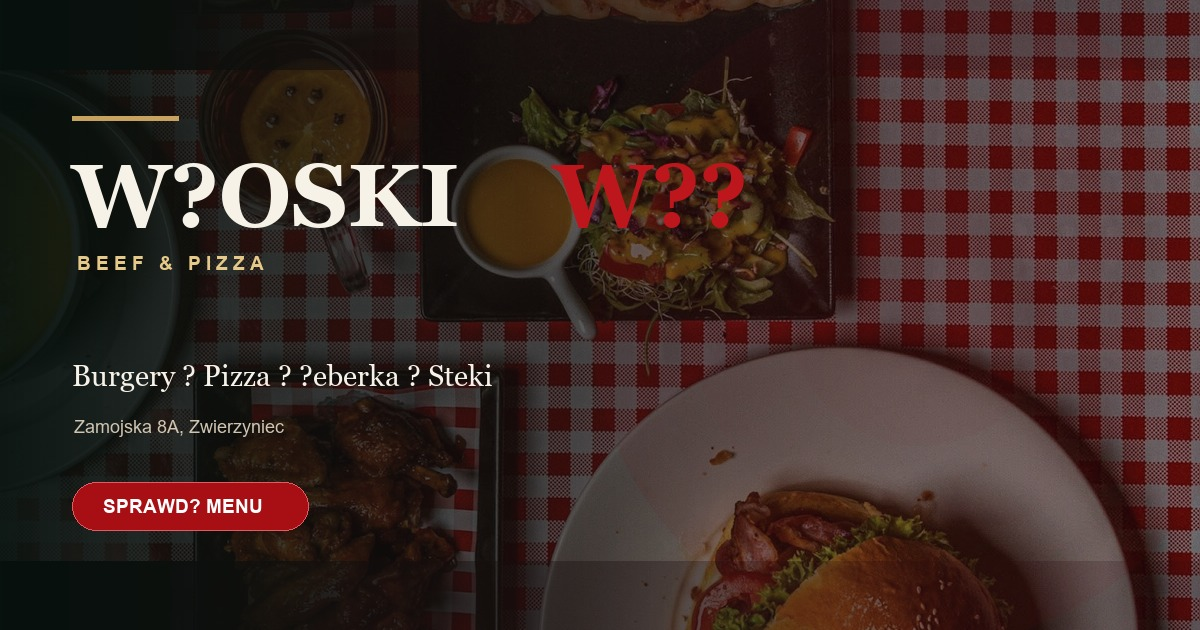
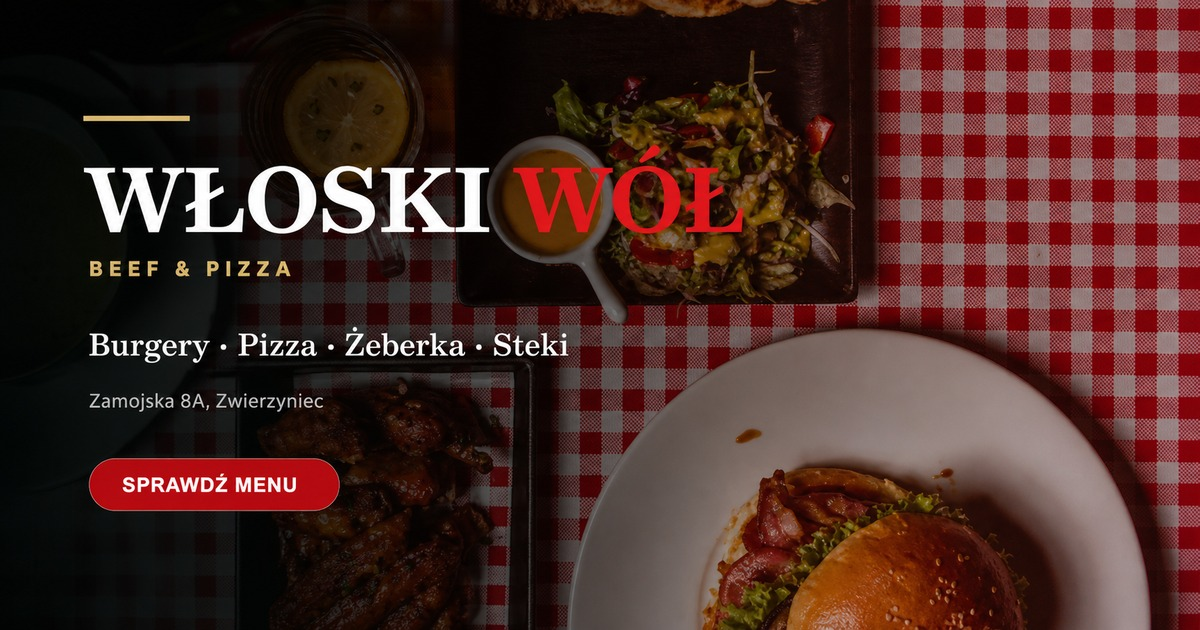
Add files via upload

diff --git a/index.html b/index.html
@@ -14,12 +14,12 @@
   <meta property="og:title" content="Włoski Wół Beef &amp; Pizza — Zwierzyniec">
   <meta property="og:description" content="Burgery, pizza, żeberka, steki i konkretne dania obiadowe w Zwierzyńcu.">
   <meta property="og:url" content="https://78747.github.io/wloski-wol.github.io/index.html">
-  <meta property="og:image" content="https://78747.github.io/wloski-wol.github.io/assets/images/og-cover.jpg"><meta property="og:image:width" content="1200"><meta property="og:image:height" content="630">
+  <meta property="og:image" content="https://78747.github.io/wloski-wol.github.io/assets/images/og-cover.jpg?v=20260714-2"><meta property="og:image:width" content="1200"><meta property="og:image:height" content="630">
   <meta property="og:image:alt" content="Włoski Wół — okładka marki">
   <meta name="twitter:card" content="summary_large_image">
   <meta name="twitter:title" content="Włoski Wół">
   <meta name="twitter:description" content="Beef &amp; Pizza. Konkretny smak.">
-  <meta name="twitter:image" content="https://78747.github.io/wloski-wol.github.io/assets/images/og-cover.jpg">
+  <meta name="twitter:image" content="https://78747.github.io/wloski-wol.github.io/assets/images/og-cover.jpg?v=20260714-2">
   <link rel="icon" href="assets/icons/favicon.png?v=20260713" type="image/png"><link rel="apple-touch-icon" href="assets/icons/favicon.png?v=20260713">
   <link rel="manifest" href="manifest.webmanifest">
   <link rel="preconnect" href="https://fonts.googleapis.com">
@@ -28,7 +28,7 @@
   <link rel="preload" href="assets/images/home-hero.jpg" as="image" type="image/jpeg">
   <link rel="stylesheet" href="styles.css?v=20260714-4">
   <script>document.documentElement.classList.remove('no-js');document.documentElement.classList.add('js');</script>
-  <script type="application/ld+json">{"@context":"https://schema.org","@type":"Restaurant","@id":"https://78747.github.io/wloski-wol.github.io/#restaurant","name":"Włoski Wół","alternateName":"Włoski Wół Beef \u0026 Pizza","url":"https://78747.github.io/wloski-wol.github.io/index.html","image":"https://78747.github.io/wloski-wol.github.io/assets/images/og-cover.jpg","description":"Beef \u0026 Pizza w Zwierzyńcu: burgery, pizza, żeberka, steki i dania obiadowe.","telephone":"+48 881 422 122","servesCuisine":["Burgery","Pizza","Steki","Dania obiadowe"],"menu":"https://78747.github.io/wloski-wol.github.io/menu.html","address":{"@type":"PostalAddress","streetAddress":"Zamojska 8A","postalCode":"22-470","addressLocality":"Zwierzyniec","addressCountry":"PL"},"hasMap":"https://www.google.com/maps/dir/?api=1\u0026destination=Zamojska+8A%2C+22-470+Zwierzyniec","sameAs":["https://www.facebook.com/wloskiwol"],"openingHoursSpecification":[{"@type":"OpeningHoursSpecification","dayOfWeek":["Monday","Tuesday","Wednesday","Thursday","Sunday"],"opens":"12:00","closes":"22:00"},{"@type":"OpeningHoursSpecification","dayOfWeek":["Friday","Saturday"],"opens":"12:00","closes":"23:00"}],"aggregateRating":{"@type":"AggregateRating","ratingValue":"4.6","bestRating":"5","reviewCount":"1391"}}</script>
+  <script type="application/ld+json">{"@context":"https://schema.org","@type":"Restaurant","@id":"https://78747.github.io/wloski-wol.github.io/#restaurant","name":"Włoski Wół","alternateName":"Włoski Wół Beef \u0026 Pizza","url":"https://78747.github.io/wloski-wol.github.io/index.html","image":"https://78747.github.io/wloski-wol.github.io/assets/images/og-cover.jpg?v=20260714-2","description":"Beef \u0026 Pizza w Zwierzyńcu: burgery, pizza, żeberka, steki i dania obiadowe.","telephone":"+48 881 422 122","servesCuisine":["Burgery","Pizza","Steki","Dania obiadowe"],"menu":"https://78747.github.io/wloski-wol.github.io/menu.html","address":{"@type":"PostalAddress","streetAddress":"Zamojska 8A","postalCode":"22-470","addressLocality":"Zwierzyniec","addressCountry":"PL"},"hasMap":"https://www.google.com/maps/dir/?api=1\u0026destination=Zamojska+8A%2C+22-470+Zwierzyniec","sameAs":["https://www.facebook.com/wloskiwol"],"openingHoursSpecification":[{"@type":"OpeningHoursSpecification","dayOfWeek":["Monday","Tuesday","Wednesday","Thursday","Sunday"],"opens":"12:00","closes":"22:00"},{"@type":"OpeningHoursSpecification","dayOfWeek":["Friday","Saturday"],"opens":"12:00","closes":"23:00"}],"aggregateRating":{"@type":"AggregateRating","ratingValue":"4.6","bestRating":"5","reviewCount":"1391"}}</script>
 </head>
 <body data-page="home">
   <a class="skip-link" href="#main">Przejdź do treści</a>

diff --git a/kontakt.html b/kontakt.html
@@ -6,11 +6,11 @@
   <meta name="description" content="Kontakt z restauracją Włoski Wół — Zamojska 8A w Zwierzyńcu. Telefon 881 422 122, aktualne godziny otwarcia, Facebook i mapa dojazdu.">
   <meta name="theme-color" content="#0A0A0A"><meta name="robots" content="index, follow">
   <link rel="canonical" href="https://78747.github.io/wloski-wol.github.io/kontakt.html">
-  <meta property="og:type" content="website"><meta property="og:locale" content="pl_PL"><meta property="og:site_name" content="Włoski Wół"><meta property="og:title" content="Kontakt i lokalizacja — Włoski Wół"><meta property="og:description" content="Dane wizyty Włoskiego Wołu."><meta property="og:url" content="https://78747.github.io/wloski-wol.github.io/kontakt.html"><meta property="og:image" content="https://78747.github.io/wloski-wol.github.io/assets/images/og-cover.jpg"><meta property="og:image:width" content="1200"><meta property="og:image:height" content="630"><meta property="og:image:alt" content="Włoski Wół — okładka marki">
-  <meta name="twitter:card" content="summary_large_image"><meta name="twitter:title" content="Kontakt — Włoski Wół"><meta name="twitter:description" content="Dane wizyty Włoskiego Wołu."><meta name="twitter:image" content="https://78747.github.io/wloski-wol.github.io/assets/images/og-cover.jpg">
+  <meta property="og:type" content="website"><meta property="og:locale" content="pl_PL"><meta property="og:site_name" content="Włoski Wół"><meta property="og:title" content="Kontakt i lokalizacja — Włoski Wół"><meta property="og:description" content="Dane wizyty Włoskiego Wołu."><meta property="og:url" content="https://78747.github.io/wloski-wol.github.io/kontakt.html"><meta property="og:image" content="https://78747.github.io/wloski-wol.github.io/assets/images/og-cover.jpg?v=20260714-2"><meta property="og:image:width" content="1200"><meta property="og:image:height" content="630"><meta property="og:image:alt" content="Włoski Wół — okładka marki">
+  <meta name="twitter:card" content="summary_large_image"><meta name="twitter:title" content="Kontakt — Włoski Wół"><meta name="twitter:description" content="Dane wizyty Włoskiego Wołu."><meta name="twitter:image" content="https://78747.github.io/wloski-wol.github.io/assets/images/og-cover.jpg?v=20260714-2">
   <link rel="icon" href="assets/icons/favicon.png?v=20260713" type="image/png"><link rel="apple-touch-icon" href="assets/icons/favicon.png?v=20260713"><link rel="manifest" href="manifest.webmanifest"><link rel="preconnect" href="https://fonts.googleapis.com"><link rel="preconnect" href="https://fonts.gstatic.com" crossorigin><link href="https://fonts.googleapis.com/css2?family=Cormorant+Garamond:ital,wght@0,400;0,500;0,600;1,500&amp;family=Manrope:wght@400;500;600;700;800&amp;display=swap" rel="stylesheet"><link rel="stylesheet" href="styles.css?v=20260714-4">
   <script>document.documentElement.classList.remove('no-js');document.documentElement.classList.add('js');</script>
-  <script type="application/ld+json">{"@context":"https://schema.org","@type":"Restaurant","@id":"https://78747.github.io/wloski-wol.github.io/#restaurant","name":"Włoski Wół","alternateName":"Włoski Wół Beef \u0026 Pizza","url":"https://78747.github.io/wloski-wol.github.io/kontakt.html","image":"https://78747.github.io/wloski-wol.github.io/assets/images/og-cover.jpg","description":"Beef \u0026 Pizza w Zwierzyńcu: burgery, pizza, żeberka, steki i dania obiadowe.","telephone":"+48 881 422 122","servesCuisine":["Burgery","Pizza","Steki","Dania obiadowe"],"menu":"https://78747.github.io/wloski-wol.github.io/menu.html","address":{"@type":"PostalAddress","streetAddress":"Zamojska 8A","postalCode":"22-470","addressLocality":"Zwierzyniec","addressCountry":"PL"},"hasMap":"https://www.google.com/maps/dir/?api=1\u0026destination=Zamojska+8A%2C+22-470+Zwierzyniec","sameAs":["https://www.facebook.com/wloskiwol"],"openingHoursSpecification":[{"@type":"OpeningHoursSpecification","dayOfWeek":["Monday","Tuesday","Wednesday","Thursday","Sunday"],"opens":"12:00","closes":"22:00"},{"@type":"OpeningHoursSpecification","dayOfWeek":["Friday","Saturday"],"opens":"12:00","closes":"23:00"}],"aggregateRating":{"@type":"AggregateRating","ratingValue":"4.6","bestRating":"5","reviewCount":"1391"}}</script>
+  <script type="application/ld+json">{"@context":"https://schema.org","@type":"Restaurant","@id":"https://78747.github.io/wloski-wol.github.io/#restaurant","name":"Włoski Wół","alternateName":"Włoski Wół Beef \u0026 Pizza","url":"https://78747.github.io/wloski-wol.github.io/kontakt.html","image":"https://78747.github.io/wloski-wol.github.io/assets/images/og-cover.jpg?v=20260714-2","description":"Beef \u0026 Pizza w Zwierzyńcu: burgery, pizza, żeberka, steki i dania obiadowe.","telephone":"+48 881 422 122","servesCuisine":["Burgery","Pizza","Steki","Dania obiadowe"],"menu":"https://78747.github.io/wloski-wol.github.io/menu.html","address":{"@type":"PostalAddress","streetAddress":"Zamojska 8A","postalCode":"22-470","addressLocality":"Zwierzyniec","addressCountry":"PL"},"hasMap":"https://www.google.com/maps/dir/?api=1\u0026destination=Zamojska+8A%2C+22-470+Zwierzyniec","sameAs":["https://www.facebook.com/wloskiwol"],"openingHoursSpecification":[{"@type":"OpeningHoursSpecification","dayOfWeek":["Monday","Tuesday","Wednesday","Thursday","Sunday"],"opens":"12:00","closes":"22:00"},{"@type":"OpeningHoursSpecification","dayOfWeek":["Friday","Saturday"],"opens":"12:00","closes":"23:00"}],"aggregateRating":{"@type":"AggregateRating","ratingValue":"4.6","bestRating":"5","reviewCount":"1391"}}</script>
 </head>
 <body data-page="contact">
   <a class="skip-link" href="#main">Przejdź do treści</a><div class="scroll-progress" data-scroll-progress aria-hidden="true"></div><div class="custom-cursor" data-cursor aria-hidden="true"></div>

diff --git a/menu.html b/menu.html
@@ -10,14 +10,14 @@
   <link rel="canonical" href="https://78747.github.io/wloski-wol.github.io/menu.html">
   <meta property="og:type" content="website"><meta property="og:locale" content="pl_PL"><meta property="og:site_name" content="Włoski Wół">
   <meta property="og:title" content="Menu — Włoski Wół"><meta property="og:description" content="Pełna karta Włoskiego Wołu z opisami dań, wariantami, gramaturami i cenami.">
-  <meta property="og:url" content="https://78747.github.io/wloski-wol.github.io/menu.html"><meta property="og:image" content="https://78747.github.io/wloski-wol.github.io/assets/images/og-cover.jpg"><meta property="og:image:width" content="1200"><meta property="og:image:height" content="630"><meta property="og:image:alt" content="Włoski Wół — okładka marki">
-  <meta name="twitter:card" content="summary_large_image"><meta name="twitter:title" content="Menu — Włoski Wół"><meta name="twitter:description" content="Karta Włoskiego Wołu."><meta name="twitter:image" content="https://78747.github.io/wloski-wol.github.io/assets/images/og-cover.jpg">
+  <meta property="og:url" content="https://78747.github.io/wloski-wol.github.io/menu.html"><meta property="og:image" content="https://78747.github.io/wloski-wol.github.io/assets/images/og-cover.jpg?v=20260714-2"><meta property="og:image:width" content="1200"><meta property="og:image:height" content="630"><meta property="og:image:alt" content="Włoski Wół — okładka marki">
+  <meta name="twitter:card" content="summary_large_image"><meta name="twitter:title" content="Menu — Włoski Wół"><meta name="twitter:description" content="Karta Włoskiego Wołu."><meta name="twitter:image" content="https://78747.github.io/wloski-wol.github.io/assets/images/og-cover.jpg?v=20260714-2">
   <link rel="icon" href="assets/icons/favicon.png?v=20260713" type="image/png"><link rel="apple-touch-icon" href="assets/icons/favicon.png?v=20260713"><link rel="manifest" href="manifest.webmanifest">
   <link rel="preconnect" href="https://fonts.googleapis.com"><link rel="preconnect" href="https://fonts.gstatic.com" crossorigin>
   <link href="https://fonts.googleapis.com/css2?family=Cormorant+Garamond:ital,wght@0,400;0,500;0,600;1,500&amp;family=Manrope:wght@400;500;600;700;800&amp;display=swap" rel="stylesheet">
   <link rel="stylesheet" href="styles.css?v=20260714-4">
   <script>document.documentElement.classList.remove('no-js');document.documentElement.classList.add('js');</script>
-  <script type="application/ld+json">{"@context":"https://schema.org","@type":"Restaurant","@id":"https://78747.github.io/wloski-wol.github.io/#restaurant","name":"Włoski Wół","alternateName":"Włoski Wół Beef \u0026 Pizza","url":"https://78747.github.io/wloski-wol.github.io/menu.html","image":"https://78747.github.io/wloski-wol.github.io/assets/images/og-cover.jpg","description":"Beef \u0026 Pizza w Zwierzyńcu: burgery, pizza, żeberka, steki i dania obiadowe.","telephone":"+48 881 422 122","servesCuisine":["Burgery","Pizza","Steki","Dania obiadowe"],"menu":"https://78747.github.io/wloski-wol.github.io/menu.html","address":{"@type":"PostalAddress","streetAddress":"Zamojska 8A","postalCode":"22-470","addressLocality":"Zwierzyniec","addressCountry":"PL"},"hasMap":"https://www.google.com/maps/dir/?api=1\u0026destination=Zamojska+8A%2C+22-470+Zwierzyniec","sameAs":["https://www.facebook.com/wloskiwol"],"openingHoursSpecification":[{"@type":"OpeningHoursSpecification","dayOfWeek":["Monday","Tuesday","Wednesday","Thursday","Sunday"],"opens":"12:00","closes":"22:00"},{"@type":"OpeningHoursSpecification","dayOfWeek":["Friday","Saturday"],"opens":"12:00","closes":"23:00"}],"aggregateRating":{"@type":"AggregateRating","ratingValue":"4.6","bestRating":"5","reviewCount":"1391"}}</script>
+  <script type="application/ld+json">{"@context":"https://schema.org","@type":"Restaurant","@id":"https://78747.github.io/wloski-wol.github.io/#restaurant","name":"Włoski Wół","alternateName":"Włoski Wół Beef \u0026 Pizza","url":"https://78747.github.io/wloski-wol.github.io/menu.html","image":"https://78747.github.io/wloski-wol.github.io/assets/images/og-cover.jpg?v=20260714-2","description":"Beef \u0026 Pizza w Zwierzyńcu: burgery, pizza, żeberka, steki i dania obiadowe.","telephone":"+48 881 422 122","servesCuisine":["Burgery","Pizza","Steki","Dania obiadowe"],"menu":"https://78747.github.io/wloski-wol.github.io/menu.html","address":{"@type":"PostalAddress","streetAddress":"Zamojska 8A","postalCode":"22-470","addressLocality":"Zwierzyniec","addressCountry":"PL"},"hasMap":"https://www.google.com/maps/dir/?api=1\u0026destination=Zamojska+8A%2C+22-470+Zwierzyniec","sameAs":["https://www.facebook.com/wloskiwol"],"openingHoursSpecification":[{"@type":"OpeningHoursSpecification","dayOfWeek":["Monday","Tuesday","Wednesday","Thursday","Sunday"],"opens":"12:00","closes":"22:00"},{"@type":"OpeningHoursSpecification","dayOfWeek":["Friday","Saturday"],"opens":"12:00","closes":"23:00"}],"aggregateRating":{"@type":"AggregateRating","ratingValue":"4.6","bestRating":"5","reviewCount":"1391"}}</script>
 </head>
 <body data-page="menu">
   <a class="skip-link" href="#main">Przejdź do treści</a><div class="scroll-progress" data-scroll-progress aria-hidden="true"></div><div class="custom-cursor" data-cursor aria-hidden="true"></div>

diff --git a/opinie.html b/opinie.html
@@ -6,11 +6,11 @@
   <meta name="description" content="Sprawdź opinie gości o Włoskim Wole Beef &amp; Pizza w Zwierzyńcu. Ocena 4,6 na podstawie 1391 opinii w Google.">
   <meta name="theme-color" content="#0B1C15"><meta name="robots" content="index, follow">
   <link rel="canonical" href="https://78747.github.io/wloski-wol.github.io/opinie.html">
-  <meta property="og:type" content="website"><meta property="og:locale" content="pl_PL"><meta property="og:site_name" content="Włoski Wół"><meta property="og:title" content="Opinie gości — Włoski Wół"><meta property="og:description" content="Ocena 4,6 i wybrane opinie gości Włoskiego Wołu Beef &amp; Pizza."><meta property="og:url" content="https://78747.github.io/wloski-wol.github.io/opinie.html"><meta property="og:image" content="https://78747.github.io/wloski-wol.github.io/assets/images/og-cover.jpg"><meta property="og:image:width" content="1200"><meta property="og:image:height" content="630"><meta property="og:image:alt" content="Włoski Wół — okładka marki">
-  <meta name="twitter:card" content="summary_large_image"><meta name="twitter:title" content="Opinie gości — Włoski Wół"><meta name="twitter:description" content="Ocena 4,6 i wybrane opinie gości Włoskiego Wołu Beef &amp; Pizza."><meta name="twitter:image" content="https://78747.github.io/wloski-wol.github.io/assets/images/og-cover.jpg">
+  <meta property="og:type" content="website"><meta property="og:locale" content="pl_PL"><meta property="og:site_name" content="Włoski Wół"><meta property="og:title" content="Opinie gości — Włoski Wół"><meta property="og:description" content="Ocena 4,6 i wybrane opinie gości Włoskiego Wołu Beef &amp; Pizza."><meta property="og:url" content="https://78747.github.io/wloski-wol.github.io/opinie.html"><meta property="og:image" content="https://78747.github.io/wloski-wol.github.io/assets/images/og-cover.jpg?v=20260714-2"><meta property="og:image:width" content="1200"><meta property="og:image:height" content="630"><meta property="og:image:alt" content="Włoski Wół — okładka marki">
+  <meta name="twitter:card" content="summary_large_image"><meta name="twitter:title" content="Opinie gości — Włoski Wół"><meta name="twitter:description" content="Ocena 4,6 i wybrane opinie gości Włoskiego Wołu Beef &amp; Pizza."><meta name="twitter:image" content="https://78747.github.io/wloski-wol.github.io/assets/images/og-cover.jpg?v=20260714-2">
   <link rel="icon" href="assets/icons/favicon.png?v=20260713" type="image/png"><link rel="apple-touch-icon" href="assets/icons/favicon.png?v=20260713"><link rel="manifest" href="manifest.webmanifest"><link rel="preconnect" href="https://fonts.googleapis.com"><link rel="preconnect" href="https://fonts.gstatic.com" crossorigin><link href="https://fonts.googleapis.com/css2?family=Cormorant+Garamond:ital,wght@0,400;0,500;0,600;1,500&amp;family=Manrope:wght@400;500;600;700;800&amp;display=swap" rel="stylesheet"><link rel="stylesheet" href="styles.css?v=20260714-4">
   <script>document.documentElement.classList.remove('no-js');document.documentElement.classList.add('js');</script>
-  <script type="application/ld+json">{"@context":"https://schema.org","@type":"Restaurant","@id":"https://78747.github.io/wloski-wol.github.io/#restaurant","name":"Włoski Wół","alternateName":"Włoski Wół Beef \u0026 Pizza","url":"https://78747.github.io/wloski-wol.github.io/opinie.html","image":"https://78747.github.io/wloski-wol.github.io/assets/images/og-cover.jpg","description":"Beef \u0026 Pizza w Zwierzyńcu: burgery, pizza, żeberka, steki i dania obiadowe.","telephone":"+48 881 422 122","servesCuisine":["Burgery","Pizza","Steki","Dania obiadowe"],"menu":"https://78747.github.io/wloski-wol.github.io/menu.html","address":{"@type":"PostalAddress","streetAddress":"Zamojska 8A","postalCode":"22-470","addressLocality":"Zwierzyniec","addressCountry":"PL"},"hasMap":"https://www.google.com/maps/dir/?api=1\u0026destination=Zamojska+8A%2C+22-470+Zwierzyniec","sameAs":["https://www.facebook.com/wloskiwol"],"openingHoursSpecification":[{"@type":"OpeningHoursSpecification","dayOfWeek":["Monday","Tuesday","Wednesday","Thursday","Sunday"],"opens":"12:00","closes":"22:00"},{"@type":"OpeningHoursSpecification","dayOfWeek":["Friday","Saturday"],"opens":"12:00","closes":"23:00"}],"aggregateRating":{"@type":"AggregateRating","ratingValue":"4.6","bestRating":"5","reviewCount":"1391"}}</script>
+  <script type="application/ld+json">{"@context":"https://schema.org","@type":"Restaurant","@id":"https://78747.github.io/wloski-wol.github.io/#restaurant","name":"Włoski Wół","alternateName":"Włoski Wół Beef \u0026 Pizza","url":"https://78747.github.io/wloski-wol.github.io/opinie.html","image":"https://78747.github.io/wloski-wol.github.io/assets/images/og-cover.jpg?v=20260714-2","description":"Beef \u0026 Pizza w Zwierzyńcu: burgery, pizza, żeberka, steki i dania obiadowe.","telephone":"+48 881 422 122","servesCuisine":["Burgery","Pizza","Steki","Dania obiadowe"],"menu":"https://78747.github.io/wloski-wol.github.io/menu.html","address":{"@type":"PostalAddress","streetAddress":"Zamojska 8A","postalCode":"22-470","addressLocality":"Zwierzyniec","addressCountry":"PL"},"hasMap":"https://www.google.com/maps/dir/?api=1\u0026destination=Zamojska+8A%2C+22-470+Zwierzyniec","sameAs":["https://www.facebook.com/wloskiwol"],"openingHoursSpecification":[{"@type":"OpeningHoursSpecification","dayOfWeek":["Monday","Tuesday","Wednesday","Thursday","Sunday"],"opens":"12:00","closes":"22:00"},{"@type":"OpeningHoursSpecification","dayOfWeek":["Friday","Saturday"],"opens":"12:00","closes":"23:00"}],"aggregateRating":{"@type":"AggregateRating","ratingValue":"4.6","bestRating":"5","reviewCount":"1391"}}</script>
 </head>
 <body data-page="reviews">
   <a class="skip-link" href="#main">Przejdź do treści</a><div class="scroll-progress" data-scroll-progress aria-hidden="true"></div><div class="custom-cursor" data-cursor aria-hidden="true"></div>